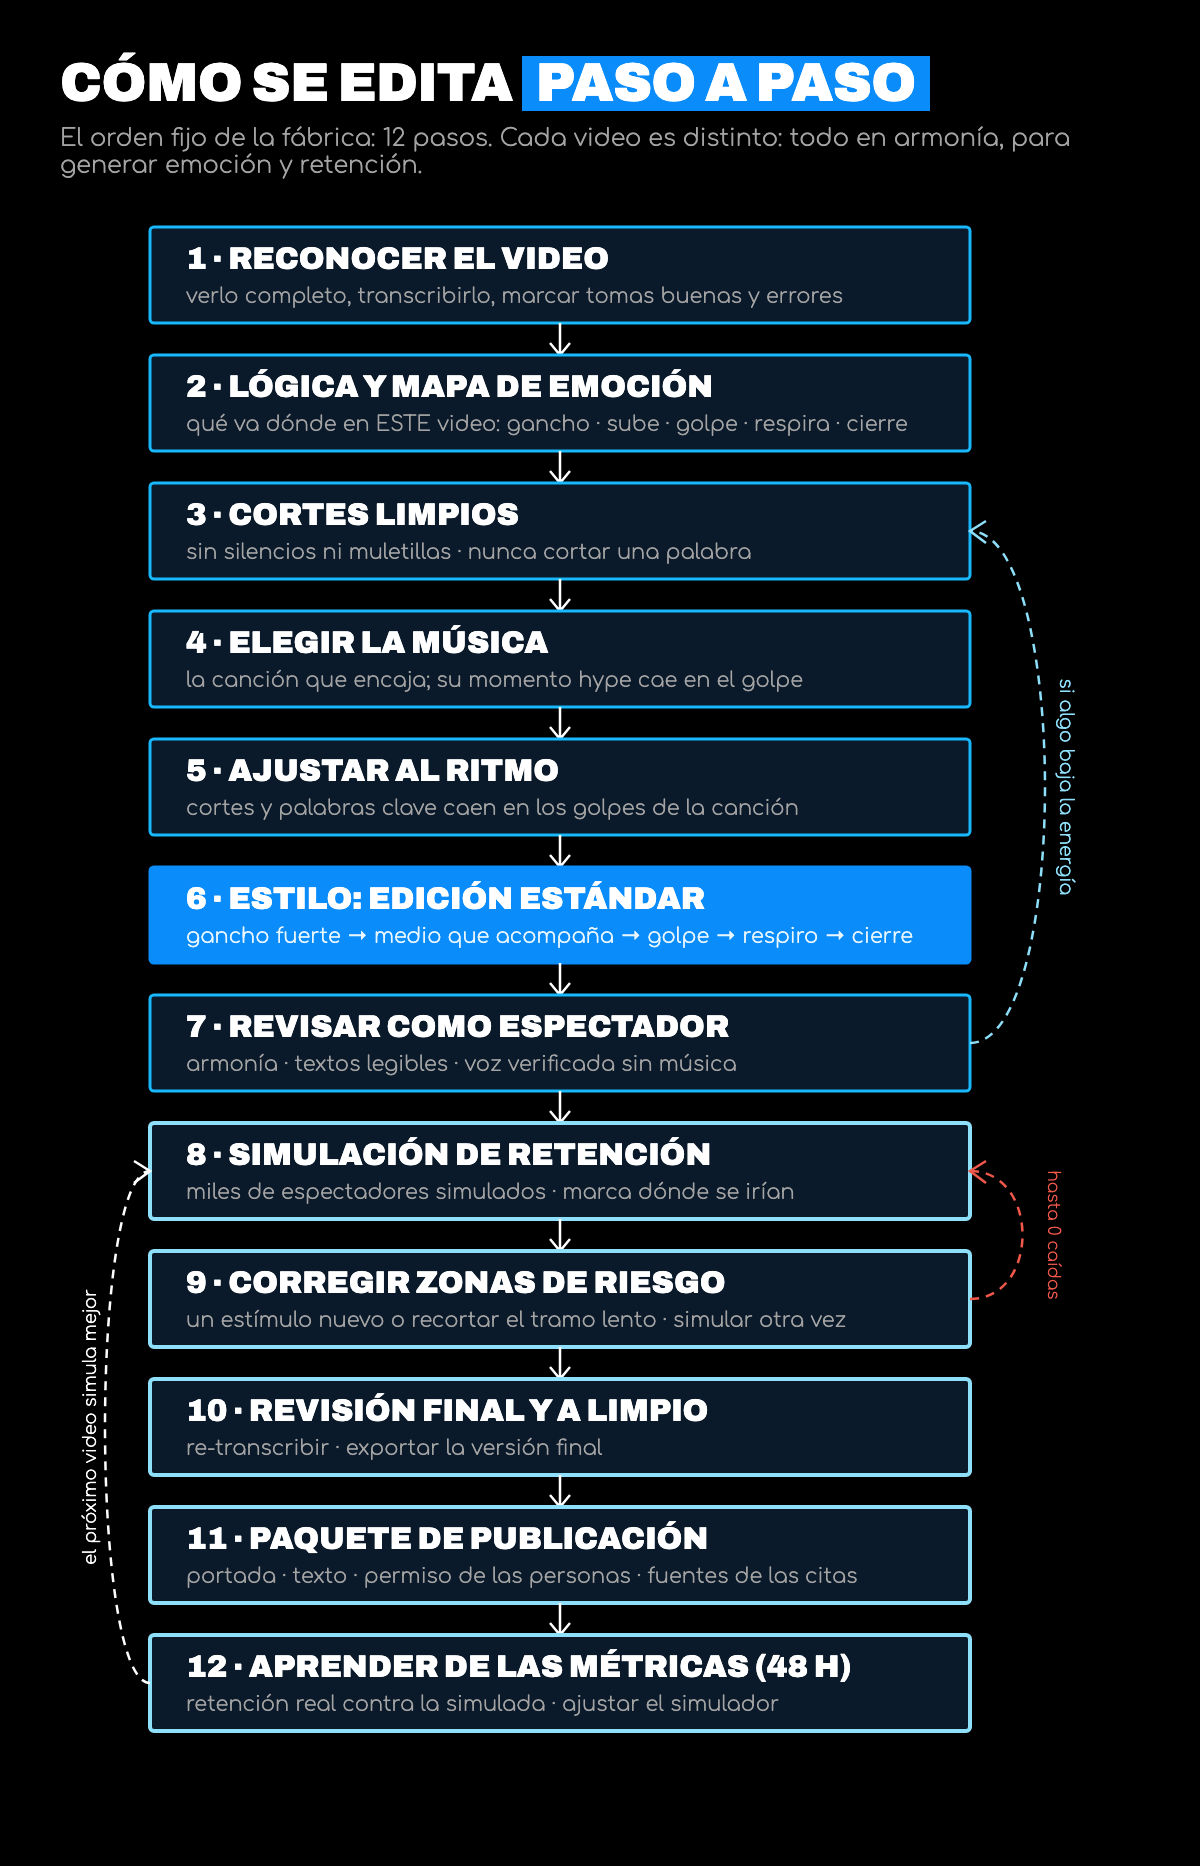
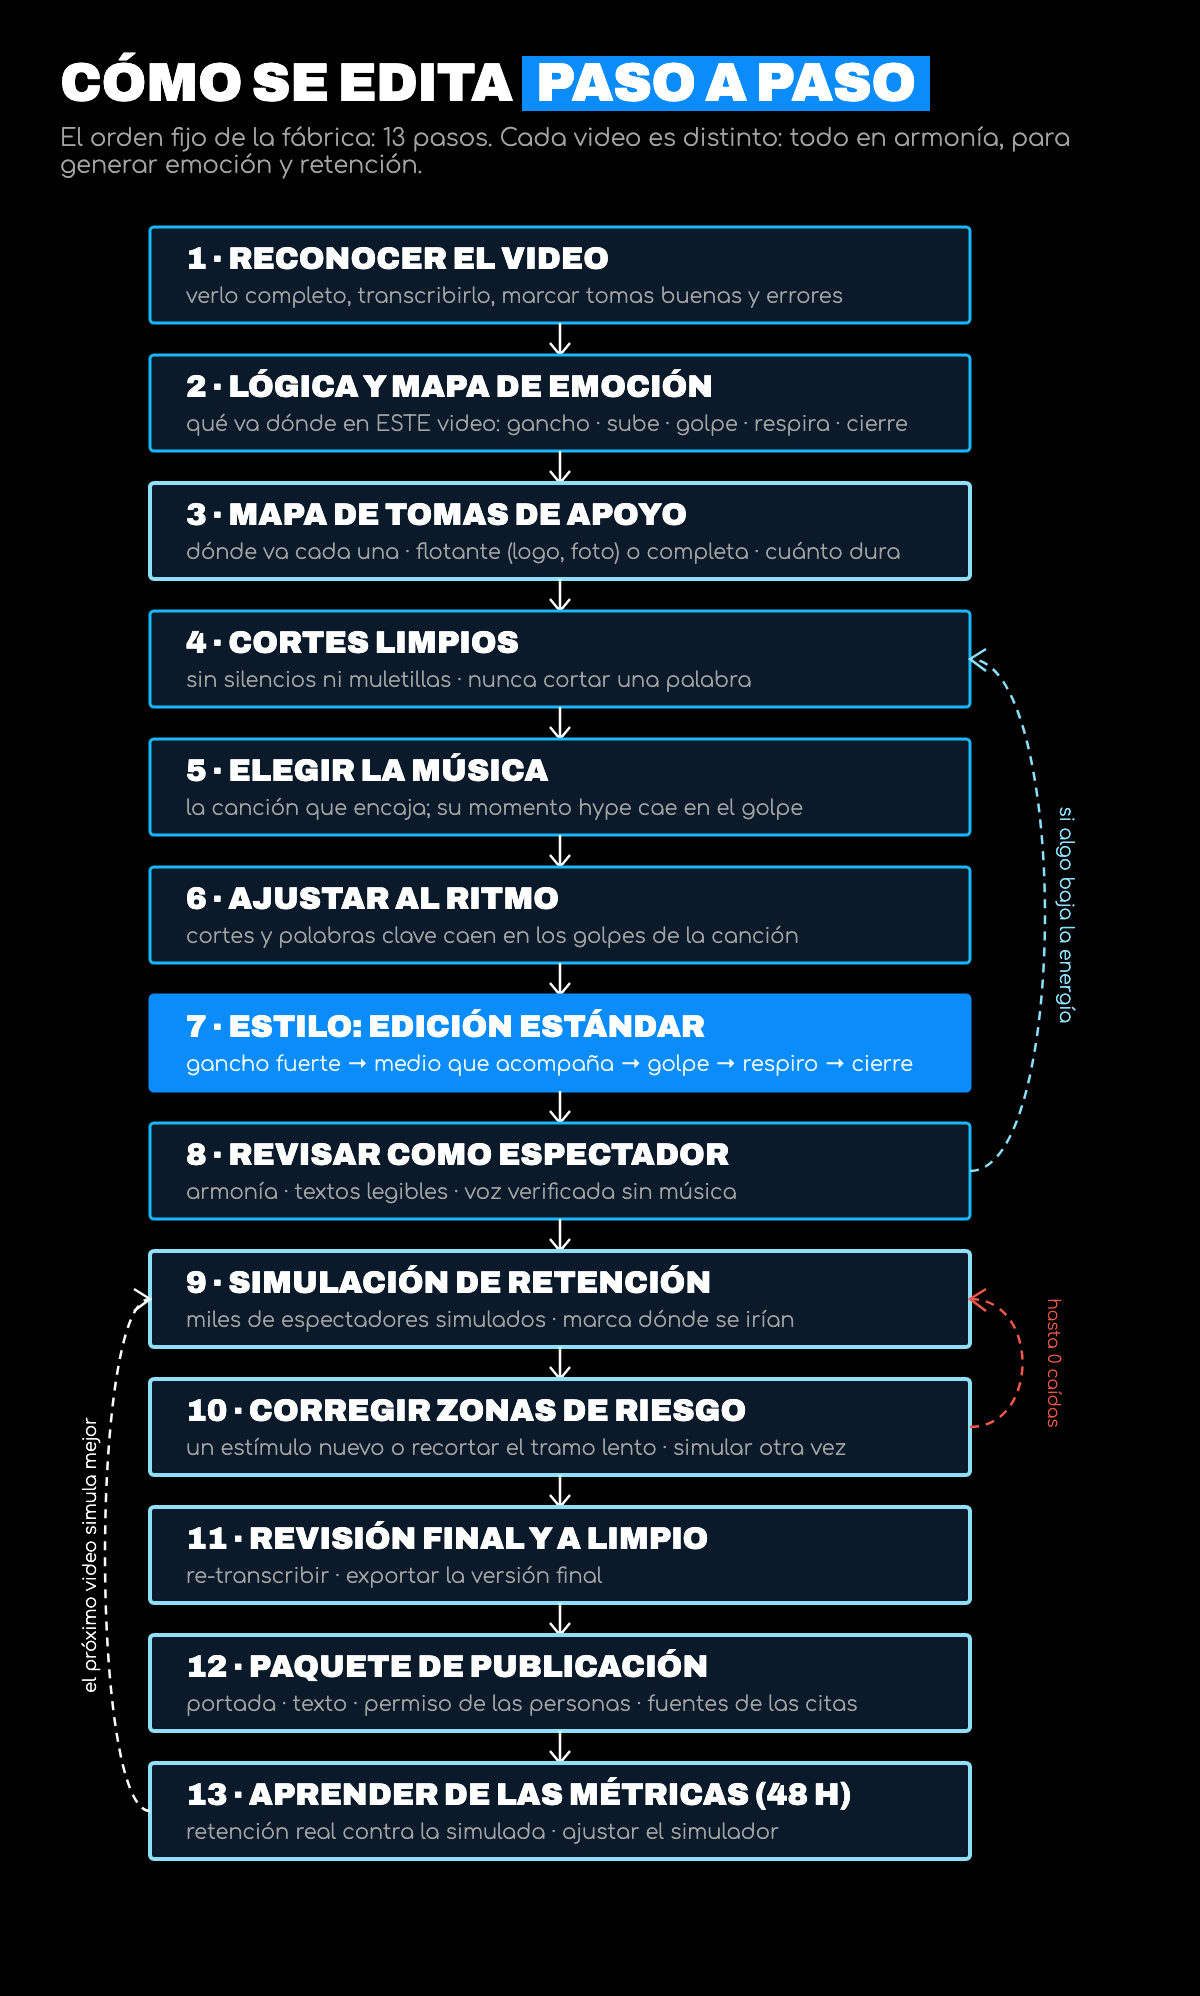
Fábrica: roadmap de 13 pasos con el mapa de tomas de apoyo y sus reglas

diff --git a/lib/fabrica-reels.ts b/lib/fabrica-reels.ts
@@ -218,19 +218,34 @@ export const FABRICA_BASE: ContenidoFabrica = {
           nombre: "Cómo se edita, paso a paso",
           grupo: "Cómo se hace",
           url: "https://www.kevproject.world/fabrica",
-          datos: "Roadmap fijo de 12 pasos · paso 6: Edición estándar · 8–9: simulación de retención · 11–12: publicar y aprender",
+          datos: "Roadmap fijo de 13 pasos · paso 3: tomas de apoyo · paso 7: Edición estándar · 9–10: simulación de retención · 12–13: publicar y aprender",
           imagenes: ["/fabrica/ia/est-d0-v3.png"],
           ancho: true,
           puntos: [
-            "1 Reconocer el video · 2 Lógica y mapa de emoción · 3 Cortes limpios · 4 Elegir la música · 5 Ajustar al ritmo · 6 Estilo · 7 Revisar como espectador · 8 Simulación de retención · 9 Corregir zonas de riesgo · 10 Revisión final y a limpio · 11 Paquete de publicación · 12 Aprender de las métricas.",
+            "1 Reconocer el video · 2 Lógica y mapa de emoción · 3 Mapa de tomas de apoyo · 4 Cortes limpios · 5 Elegir la música · 6 Ajustar al ritmo · 7 Estilo · 8 Revisar como espectador · 9 Simulación de retención · 10 Corregir zonas de riesgo · 11 Revisión final y a limpio · 12 Paquete de publicación · 13 Aprender de las métricas.",
             "Cada video es distinto: en el paso 2 se decide qué va dónde en ESE video (gancho, subida, golpe, respiro, cierre) para que todo esté en armonía y genere emoción y retención.",
-            "Paso 7, automático: ningún texto detrás de la persona puede quedar tapado más de un 30 % (si pasa, va adelante) y la voz se verifica sola, sin música, contra lo que tiene que decir.",
-            "Paso 11: portada, texto, permiso de las personas que salen y la fuente de cada cita. Paso 12: a las 48 h se compara la retención real con la simulada y se ajusta el simulador para el próximo video.",
+            "Paso 8, automático: ningún texto detrás de la persona puede quedar tapado más de un 30 % (si pasa, va adelante) y la voz se verifica sola, sin música, contra lo que tiene que decir.",
+            "Paso 12: portada, texto, permiso de las personas que salen y la fuente de cada cita. Paso 13: a las 48 h se compara la retención real con la simulada y se ajusta el simulador para el próximo video.",
             "Si en la revisión algo baja la energía, se vuelve a los cortes.",
             "Antes de publicar: miles de espectadores simulados miran el video (herramientas/retencion.js); donde se irían, se agrega un estímulo o se recorta, y se vuelve a simular hasta que no queden caídas.",
             "La edición tiene que sentirse como una canción: entra, sube, respira y remata.",
           ],
-          paraKev: "Definido por Kev el 2026-11-05 (pasos 8–12 y el mapa de emoción agregados el mismo día). Detalle en procesos/04-edicion.md.",
+          paraKev: "Definido por Kev el 2026-11-05 (simulación, publicación, métricas, mapa de emoción y tomas de apoyo agregados el mismo día). Detalle en procesos/04-edicion.md.",
+        },
+        {
+          nombre: "Tomas de apoyo (paso 3)",
+          grupo: "Cómo se hace",
+          url: "https://www.kevproject.world/fabrica",
+          datos: "Dónde va cada una, de qué tipo y cuánto dura · ejemplo con el video IA 2030",
+          imagenes: ["/fabrica/ia/ia-d6-v1.png"],
+          ancho: true,
+          puntos: [
+            "Toma completa (reemplaza la imagen): cuando se nombra algo que se puede mostrar. Dura 1,5 a 3 s; una cita de entrevista, lo que dura la frase (máx. 4 s). La voz sigue debajo.",
+            "Elemento flotante (logo, foto recortada, ícono): entra 0,1 s antes de la palabra y dura 1 a 2 s, uno a la vez, sin tapar la cara.",
+            "Nunca una toma completa en el gancho ni en el golpe: ahí la cara es la emoción. En entrevistas, máximo un cuarto del video.",
+            "Si el material es de otro, va con rótulo de la fuente.",
+          ],
+          paraKev: "Solo material propio, con licencia o con permiso. Un fragmento de una entrevista de terceros (p. ej. Musk) se usa solo con el «sí» de Kev.",
         },
         {
           nombre: "Simulación de retención (pasos 8 y 9)",
@@ -319,19 +334,34 @@ export const FABRICA_BASE: ContenidoFabrica = {
           nombre: "Cómo se edita, paso a paso",
           grupo: "Cómo se hace",
           url: "https://www.kevproject.world/fabrica",
-          datos: "Roadmap fijo de 12 pasos · paso 6: Edición especial con IA · 8–9: simulación de retención · 11–12: publicar y aprender",
+          datos: "Roadmap fijo de 13 pasos · paso 3: tomas de apoyo · paso 7: Edición especial con IA · 9–10: simulación de retención · 12–13: publicar y aprender",
           imagenes: ["/fabrica/ia/ia-d0-v3.png"],
           ancho: true,
           puntos: [
-            "1 Reconocer el video · 2 Lógica y mapa de emoción · 3 Cortes limpios · 4 Elegir la música · 5 Ajustar al ritmo · 6 Estilo · 7 Revisar como espectador · 8 Simulación de retención · 9 Corregir zonas de riesgo · 10 Revisión final y a limpio · 11 Paquete de publicación · 12 Aprender de las métricas.",
+            "1 Reconocer el video · 2 Lógica y mapa de emoción · 3 Mapa de tomas de apoyo · 4 Cortes limpios · 5 Elegir la música · 6 Ajustar al ritmo · 7 Estilo · 8 Revisar como espectador · 9 Simulación de retención · 10 Corregir zonas de riesgo · 11 Revisión final y a limpio · 12 Paquete de publicación · 13 Aprender de las métricas.",
             "Cada video es distinto: en el paso 2 se decide qué va dónde en ESE video (gancho, subida, golpe, respiro, cierre) para que todo esté en armonía y genere emoción y retención.",
-            "Paso 7, automático: ningún texto detrás de la persona puede quedar tapado más de un 30 % (si pasa, va adelante) y la voz se verifica sola, sin música, contra lo que tiene que decir.",
-            "Paso 11: portada, texto, permiso de las personas que salen y la fuente de cada cita. Paso 12: a las 48 h se compara la retención real con la simulada y se ajusta el simulador para el próximo video.",
+            "Paso 8, automático: ningún texto detrás de la persona puede quedar tapado más de un 30 % (si pasa, va adelante) y la voz se verifica sola, sin música, contra lo que tiene que decir.",
+            "Paso 12: portada, texto, permiso de las personas que salen y la fuente de cada cita. Paso 13: a las 48 h se compara la retención real con la simulada y se ajusta el simulador para el próximo video.",
             "Si en la revisión algo baja la energía, se vuelve a los cortes.",
             "Antes de publicar: miles de espectadores simulados miran el video (herramientas/retencion.js); donde se irían, se agrega un estímulo o se recorta, y se vuelve a simular hasta que no queden caídas.",
             "La edición tiene que sentirse como una canción: entra, sube, respira y remata.",
           ],
-          paraKev: "Definido por Kev el 2026-11-05 (pasos 8–12 y el mapa de emoción agregados el mismo día). Detalle en procesos/04-edicion.md.",
+          paraKev: "Definido por Kev el 2026-11-05 (simulación, publicación, métricas, mapa de emoción y tomas de apoyo agregados el mismo día). Detalle en procesos/04-edicion.md.",
+        },
+        {
+          nombre: "Tomas de apoyo (paso 3)",
+          grupo: "Cómo se hace",
+          url: "https://www.kevproject.world/fabrica",
+          datos: "Dónde va cada una, de qué tipo y cuánto dura · ejemplo con el video IA 2030",
+          imagenes: ["/fabrica/ia/ia-d6-v1.png"],
+          ancho: true,
+          puntos: [
+            "Toma completa (reemplaza la imagen): cuando se nombra algo que se puede mostrar. Dura 1,5 a 3 s; una cita de entrevista, lo que dura la frase (máx. 4 s). La voz sigue debajo.",
+            "Elemento flotante (logo, foto recortada, ícono): entra 0,1 s antes de la palabra y dura 1 a 2 s, uno a la vez, sin tapar la cara.",
+            "Nunca una toma completa en el gancho ni en el golpe: ahí la cara es la emoción. En entrevistas, máximo un cuarto del video.",
+            "Si el material es de otro, va con rótulo de la fuente.",
+          ],
+          paraKev: "Solo material propio, con licencia o con permiso. Un fragmento de una entrevista de terceros (p. ej. Musk) se usa solo con el «sí» de Kev.",
         },
         {
           nombre: "Simulación de retención (pasos 8 y 9)",
